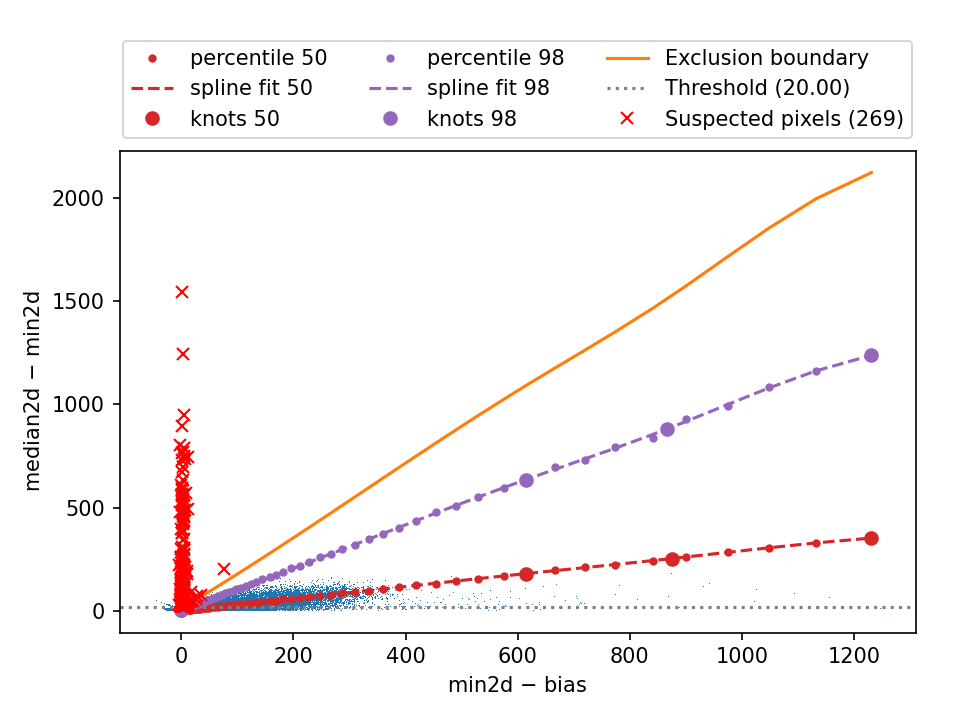
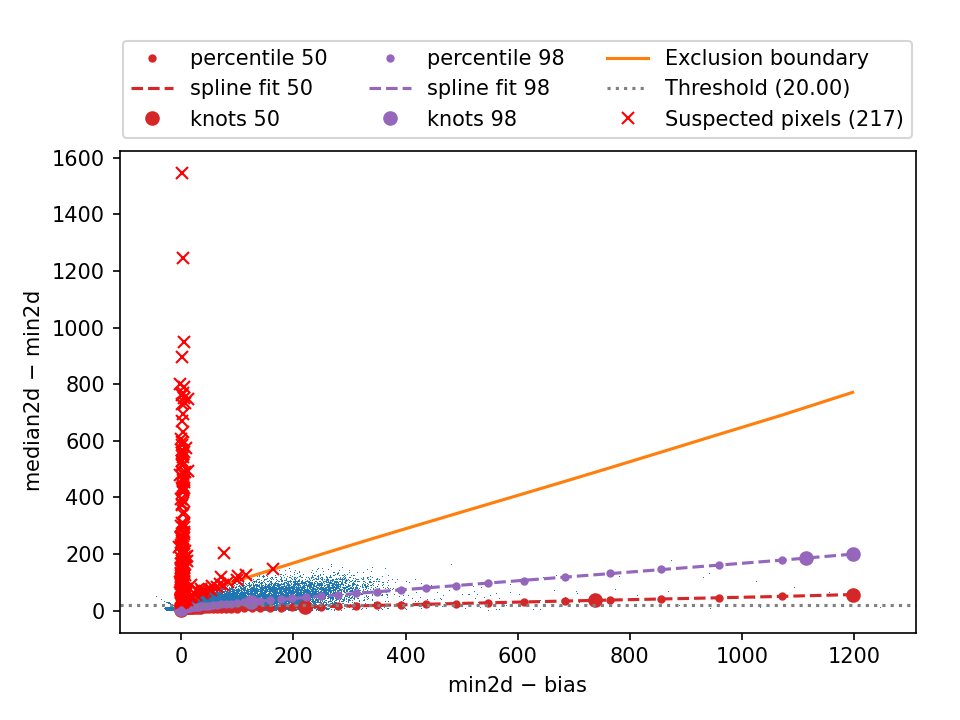
Update mediancr documentation

diff --git a/cookbook/mediancr.rst b/cookbook/mediancr.rst
@@ -18,6 +18,11 @@ automatic procedure of this kind has been introduced in the **numina** package,
 which can be easily invoked by modifying the default image combination method
 used by MEGARA DRP.
 
+.. warning::
+
+   This functionality is still in development... please do not use it until
+   this warning notice is removed.
+
 
 The mediancr method
 ===================
@@ -60,25 +65,25 @@ the individual exposures) that contain the minimum value ``min2d``, maximum
 value ``max2d``, and median value ``median2d`` at each pixel along the sequence
 of available exposures. On the vertical axis of the previous figure, the
 difference between the ``median2d`` and ``min2d`` of each pixel is shown, while
-the horizontal axis displays ``min2d - bias``.  The different solid lines correspond
-to the result of performing numerical simulations using the gain, readout
-noise, bias, and the minimum and maximum flatfield values. These simulations
-are computed for discrete values of ``min2d - bias`` (represented as filled
-circles overimposed on the lines).  For each of these values, the percentiles
-50 and 98 are computed. Since the simulated values are unavoidably noisy, the
-predictions are fitted using splines (dashed lines, which are difficult to see
-unless a zoom is performed). The exclusion boundary (orange line) is computed
-by extending the difference between the spline fit to the percentiles 98 and 50
-beyond the spline fit to the percentile 98. This extension is controlled by a
-parameter named ``times_boundary_extension`` (see below).  Pixels that lie
-above the calculated exclusion boundary and above a minimum threshold in the
-vertical axis of the figure (dotted gray line) are initially flagged as
-suspected of having been hit by a cosmic ray in more than one exposure.  An
-additional requirement (not shown) is imposed: the considered pixel must have a
-``max2d`` value above three times the readout noise (this avoids pixels with
-negative signal very close to the bias level in the raw images). The final set
-of suspected pixels are plotted with red x's in the figure, with the total
-number of pixels displayed in the legend.
+the horizontal axis displays ``min2d - bias``.  The different solid lines
+correspond to the result of performing numerical simulations using the gain,
+readout noise, bias, and two ad hoc parameters that can take into account flux
+variations between different exposures. These simulations are computed for
+discrete values of ``min2d - bias`` (represented as filled circles overimposed
+on the lines). For each of these values, the percentiles 50 and 98 are
+computed. Since the simulated values are unavoidably noisy, the predictions are
+fitted using splines (dashed lines). The exclusion boundary (orange line) is
+computed by extending the difference between the spline fit to the percentiles
+98 and 50 beyond the spline fit to the percentile 98. This extension is
+controlled by a parameter named ``times_boundary_extension`` (see below).
+Pixels that lie above the calculated exclusion boundary and above a minimum
+threshold in the vertical axis of the figure (dotted gray line) are initially
+flagged as suspected of having been hit by a cosmic ray in more than one
+exposure.  An additional requirement (not shown) is imposed: the considered
+pixel must have a ``max2d`` value above three times the readout noise (this
+avoids pixels with negative signal very close to the bias level in the raw
+images). The final set of suspected pixels are plotted with red x's in the
+figure, with the total number of pixels displayed in the legend.
 
 **The signal in the suspected pixels is replaced, in the** ``median2d``
 **image, by the corresponding** ``min2d`` **value.** This means that the
@@ -99,9 +104,6 @@ It is important to note that, in addition to specifying the method as ``method:
 mediancr``, some additional parameters must also be provided under the
 ``method_kwargs:`` key, in particular:
 
-- ``find_double_cr`` (default True): if True, apply the double cosmic ray
-  detection algorithm. If False, the function will only compute the median
-  without detecting double cosmic rays.
 - ``gain``: detector gain (electron/ADU). Although the MEGARA detector
   exhibits two different gains (1.60 and 1.73; one value for each detector
   half), here we can use a single value.  This is not critical because the two
@@ -110,9 +112,16 @@ mediancr``, some additional parameters must also be provided under the
 - ``rnoise``: readout noise (ADU)
 - ``bias`` (default value 0.0): bias value (ADU). **This must be set to zero
   for MEGARA because the code that applies the mediancr method receives
-  preprocessed exposures where the bias level has already been subtracted.**
-- ``flatmin`` (default 1.0): minimum simulated normalized flatfield value.
-- ``flatmax`` (default 1.0): maximum simulated normalized flatfield value.
+  preprocessed exposures where the overscan level has already been
+  subtracted.**
+- ``flux_variation_min`` (default 1.0): minimum simulated flux variation
+  value.
+- ``flux_variation_max`` (default 1.0): maximum simulated flux variation value.
+  The simulated data is modified by a multiplicative factor that is randomly
+  chosen from a uniform distribution ranging from ``flux_variation_min`` to
+  ``flux_variation_max``.
+- ``ntest`` (default 100): number of points along the x-axis in the diagnostic
+  diagram to sample for the boundary.
 - ``knots_splfit`` (default 3): number of inner knots employed in the spline
   fit to the simulated boundary data.
 - ``nsimulations`` (default 10000): number of simulations to perform for each
@@ -132,16 +141,16 @@ mediancr``, some additional parameters must also be provided under the
   matplotlib plot with the diagnostic diagram (allowing the user to use the
   zoom and pan buttons). It is very convenient to set this parameter to True,
   interactively examine the diagnostic diagram, stop the program execution, and
-  try changing the values of ``flatmin``, ``flatmax``,
+  try changing the values of ``flux_variation_min``, ``flux_variation_max``,
   ``times_boundary_extension`` and ``threshold``. Other parameters such as
   ``rnoise`` and ``gain`` can also be modified, although the user should take
   into account that the objective is to find an automatic way to select
   uncorrected cosmic rays, not to make use of realistic values of gain, readout
-  noise or flatfield variation. Note that the values of ``flatmin`` and
-  ``flatmax`` can be used to allow the simulations to account, to some extent,
-  for the effect of signal variations in different MEGARA exposures. This can
-  happen, for example, in sky lines (when exposure times are long), or due to
-  small shifts in the telescope pointing.
+  or readout noise. Note that the values of ``flux_variation_min`` and
+  ``flux_variation_max`` can be used to allow the simulations to account, to
+  some extent, for the effect of signal variations in different MEGARA
+  exposures. This can happen, for example, in sky lines (when exposure times
+  are long), or due to small shifts in the telescope pointing.
 - ``dilation`` (default 1): the pixels composing each cosmic ray can be
   surrounded by a dilation factor, which expands the mask around the detected
   cosmic ray pixels. A value of zero means that no dilation is applied.
@@ -151,8 +160,8 @@ mediancr``, some additional parameters must also be provided under the
   ``mediancr_identified_cr.pdf`` is generated with the individual double cosmic
   rays identified. Note that enabling this option may introduce a noticeable
   penalty in execution time.
-- ``semiwindow`` (default 15): the semiwindow size to plot the double cosmic
-  rays. Only used if ``plots`` is True.
+- ``semiwindow`` (default 15): the semiwindow size (pixels) to plot the double
+  cosmic rays. Only used if ``plots`` is True.
 - ``color_scale`` (default minmax): the color scale employed in the
   ``mediancr_identified_cr.pdf`` images. Only used if ``plots`` is True. The
   valid options are minmax and zscale.
